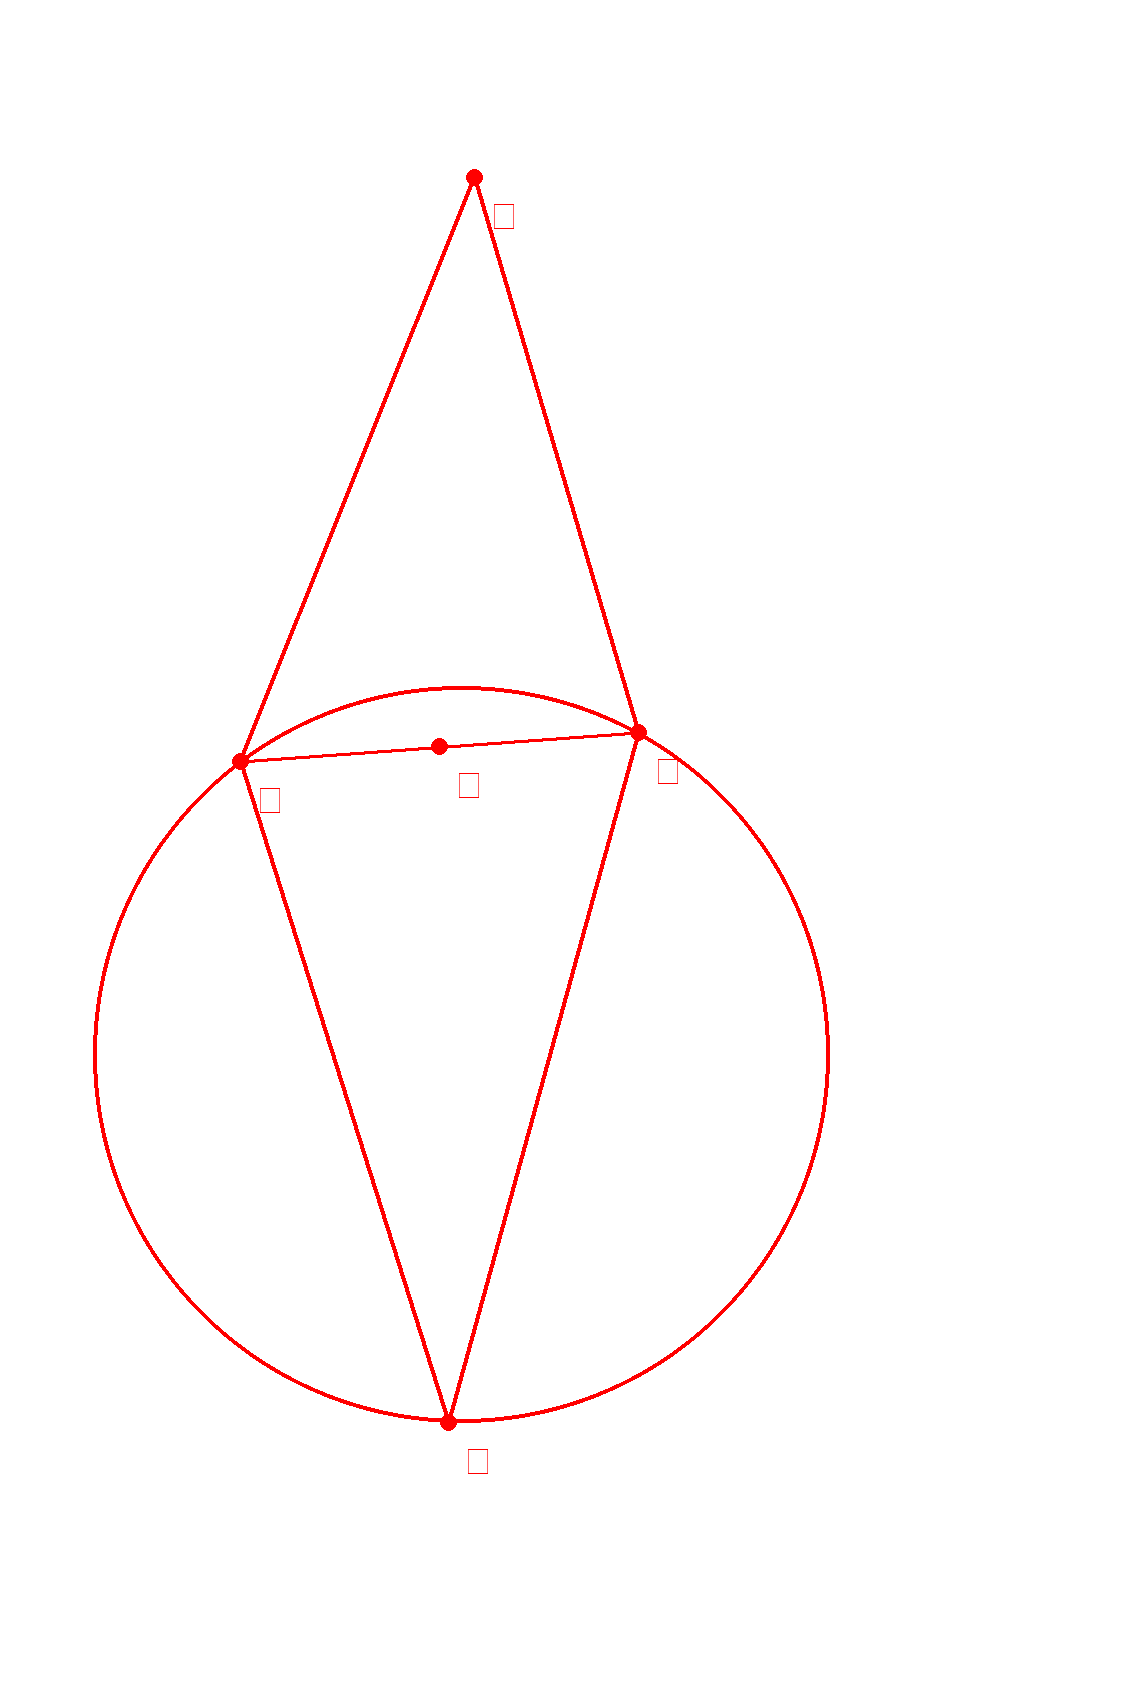
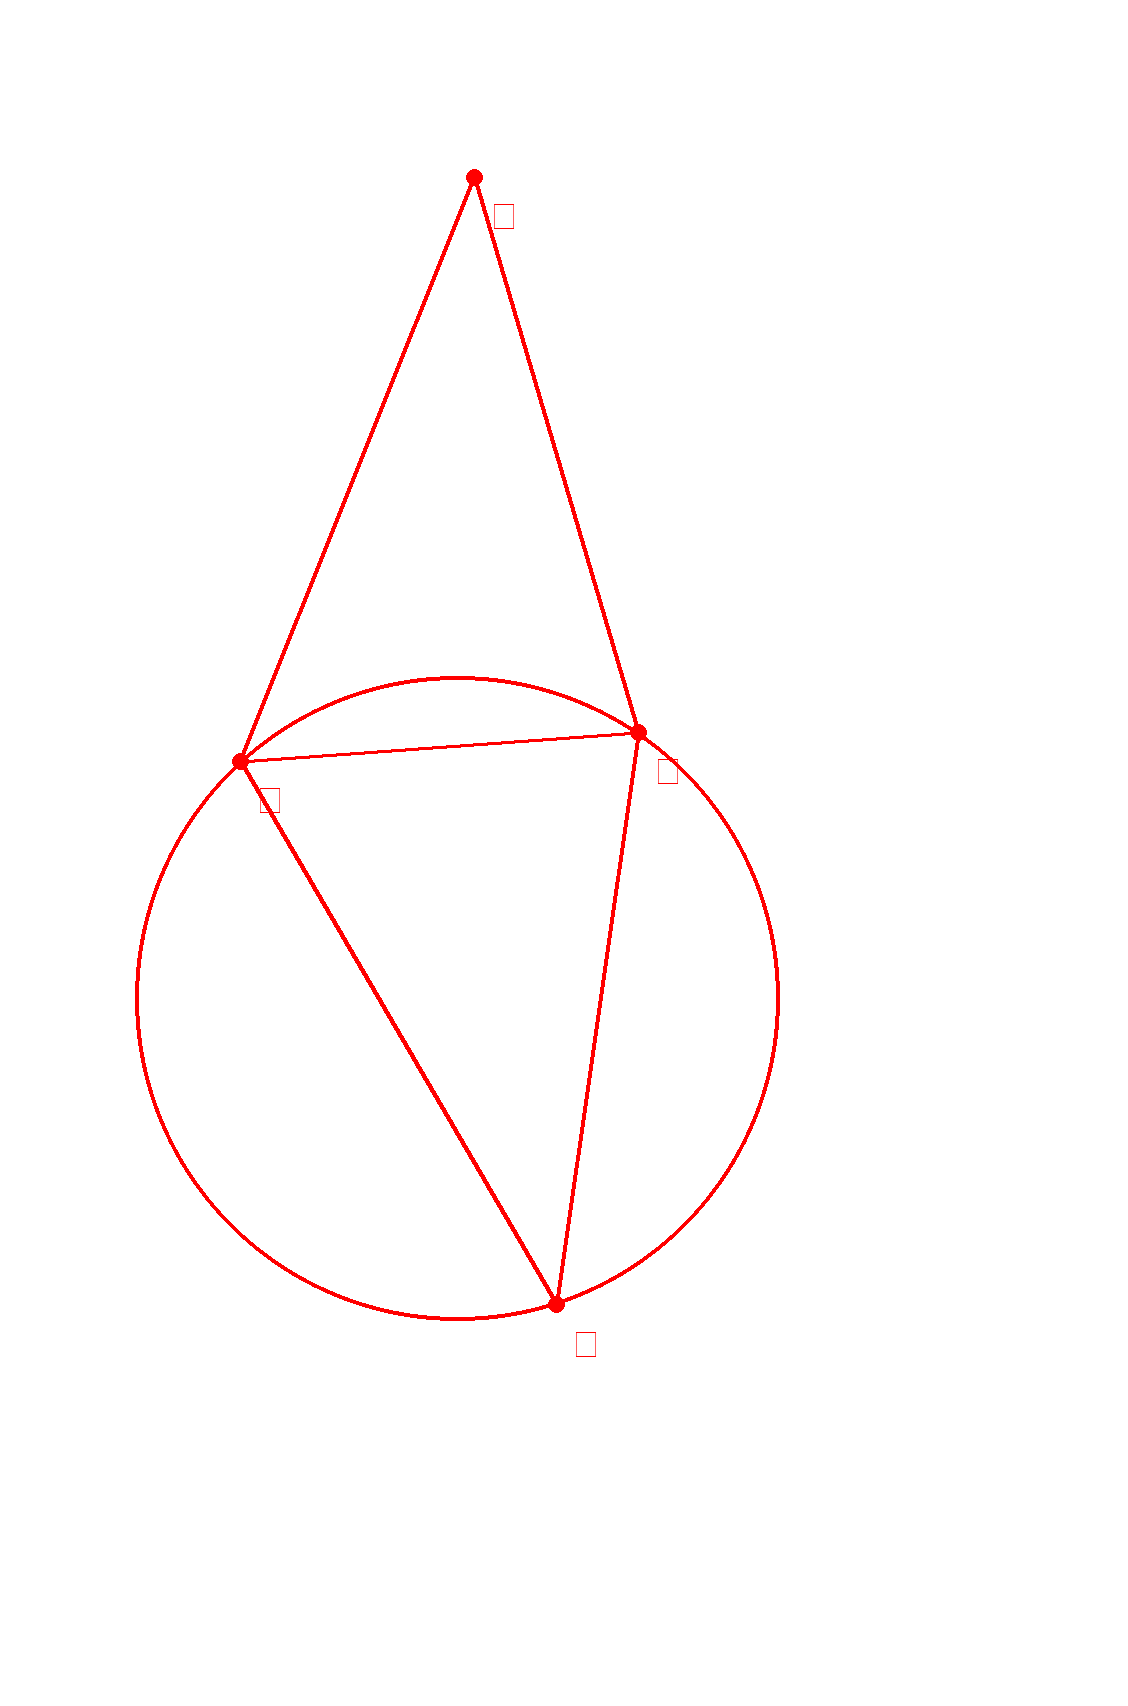
Feat: Made it generate ideal diagram smarter

diff --git a/templates/diagram_workflow.html b/templates/diagram_workflow.html
@@ -1,0 +1,57 @@
+<!DOCTYPE html>
+<html lang="en">
+<head>
+    <meta charset="UTF-8">
+    <title>Diagram Workflow Tool</title>
+</head>
+<body>
+    <h1>Diagram Workflow Tool</h1>
+    <a href="/">&larr; Back to Home</a>
+    <form method="post" enctype="multipart/form-data">
+        <label for="image">Upload diagram image:</label>
+        <input type="file" name="image" id="image" required><br><br>
+        <label for="question">Diagram question/instructions:</label><br>
+        <textarea name="question" id="question" rows="4" cols="50" required></textarea><br><br>
+        <button type="submit">Run Workflow</button>
+    </form>
+    {% if error %}
+        <p style="color:red;">{{ error }}</p>
+    {% endif %}
+    {% if result %}
+        <h2>Results</h2>
+        <h3>Qualitative Assessment</h3>
+        <p>{{ result.qualitative_assessment }}</p>
+        <h4>Similarities</h4>
+        <ul>
+        {% for s in result.similarities %}
+            <li>{{ s }}</li>
+        {% endfor %}
+        </ul>
+        <h4>Differences</h4>
+        <ul>
+        {% for d in result.differences %}
+            <li>{{ d }}</li>
+        {% endfor %}
+        </ul>
+        <h4>Suggestions for Improvement</h4>
+        <ul>
+        {% for sug in result.suggestions %}
+            <li>{{ sug }}</li>
+        {% endfor %}
+        </ul>
+        <h3>Images</h3>
+        <p>Ideal Diagram:</p>
+        <img src="/{{ result.ideal_diagram_img }}" alt="Ideal Diagram" style="max-width:400px;"><br>
+        <p>Overlay:</p>
+        <img src="/{{ result.overlay_img }}" alt="Overlay Diagram" style="max-width:400px;"><br>
+        <p>Student Detected Points:</p>
+        <img src="/{{ result.student_detected_points_img }}" alt="Student Points" style="max-width:400px;"><br>
+        <p>Student Detected Lines:</p>
+        <img src="/{{ result.student_detected_lines_img }}" alt="Student Lines" style="max-width:400px;"><br>
+        <p>Student Detected Circles:</p>
+        <img src="/{{ result.student_detected_circles_img }}" alt="Student Circles" style="max-width:400px;"><br>
+        <h3>Raw Data</h3>
+        <pre>{{ result | tojson(indent=2) }}</pre>
+    {% endif %}
+</body>
+</html> 

diff --git a/templates/home.html b/templates/home.html
@@ -1,0 +1,14 @@
+<!DOCTYPE html>
+<html lang="en">
+<head>
+    <meta charset="UTF-8">
+    <title>Mini Edexia Tools</title>
+</head>
+<body>
+    <h1>Welcome to Mini Edexia Tools</h1>
+    <ul>
+        <li><a href="/diagram-workflow">Diagram Workflow Tool</a></li>
+        <!-- <li><a href="/ocr-tool">Pure OCR Tool</a></li> -->
+    </ul>
+</body>
+</html> 

diff --git a/.diagram_hidden/diagram_workflow.py b/.diagram_hidden/diagram_workflow.py
@@ -478,7 +478,7 @@ def get_detailed_drawing_plan_llm(question_text, student_refined_points):
     Based on the following math problem question and the detected anchor points, generate a detailed drawing plan.
     The plan should specify:
     1.  `derived_point_calculations`: A list of objects, each describing how to calculate a new point.
-        - For reflection: `{{'point_label': 'D', 'type': 'reflection', 'source_point': 'B', 'over_line': ['A', 'C']}}`
+        - For reflection: `{{'point_label': 'D', 'type': 'reflection', 'source_point': 'B', 'over_line': ['A', 'C']}}` (Note: 'over_line' must be provided for reflections)
         - For midpoint: `{{'point_label': 'M', 'type': 'midpoint', 'points': ['A', 'C']}}`
     2.  `lines_to_draw`: A list of lists, where each inner list contains two point labels (e.g., `['A', 'B']`). This should cover all primary lines.
     3.  `circles_to_draw`: A list of objects, each describing a circle.
@@ -549,7 +549,7 @@ def get_detailed_drawing_plan_llm(question_text, student_refined_points):
         # Fallback to a default drawing plan on error
         fallback_plan = {
             "derived_point_calculations": [
-                {"point_label": "D", "type": "reflection", "source_point": "B", "over_line": ["A", "C"]}
+                {"point_label": "D", "type": "reflection", "source_point": "B", "over_line": ["A", "C"]} # Added over_line to fallback
             ],
             "lines_to_draw": [
                 ["A", "B"], ["B", "C"], ["A", "C"], ["A", "D"], ["C", "D"]
@@ -564,7 +564,7 @@ def get_detailed_drawing_plan_llm(question_text, student_refined_points):
 
 
 # --- Step 4: Construct the Ideal Diagram Image (Programmatic Drawing) ---
-def construct_ideal_diagram(student_refined_points, drawing_plan, img_shape):
+def construct_ideal_diagram(student_refined_points, drawing_plan, img_shape, easiest_anchor_points):
     """
     Programmatically constructs an ideal, complete diagram image using Pillow,
     driven by a detailed drawing plan from the LLM.
@@ -573,10 +573,16 @@ def construct_ideal_diagram(student_refined_points, drawing_plan, img_shape):
     print("--- Step 4: Constructing the ideal diagram using Pillow (based on drawing plan) ---")
     sys.stdout.flush()
 
-    # Start with student's anchor points
-    ideal_coords_for_comparison = {
-        label: coords for label, coords in student_refined_points.items()
-    }
+    # Initialize ideal_coords_for_comparison with ONLY the anchor points from the student's diagram
+    ideal_coords_for_comparison = {}
+    for label in easiest_anchor_points:
+        if label in student_refined_points:
+            ideal_coords_for_comparison[label] = student_refined_points[label]
+        else:
+            print(f"Warning: Anchor point '{label}' not found in student_refined_points. Cannot construct ideal diagram accurately.")
+            sys.stdout.flush()
+            # Depending on severity, you might want to raise an error or return an empty dict here.
+            # For now, we'll continue, but the diagram might be incomplete.
 
     img_width, img_height = img_shape[1], img_shape[0]
     ideal_img = Image.new('RGBA', (img_width, img_height), (0, 0, 0, 0))
@@ -636,6 +642,9 @@ def construct_ideal_diagram(student_refined_points, drawing_plan, img_shape):
                 else:
                     print(f"Warning: Missing or invalid coordinates for reflection calculation for point '{point_label}'.")
                     sys.stdout.flush()
+            else:
+                print(f"Warning: Reflection calculation for point '{point_label}' is missing 'source_point' or 'over_line' information. Skipping calculation.")
+                sys.stdout.flush()
         elif calc_type == "midpoint":
             midpoint_points_labels = calc.get('points')
             if midpoint_points_labels and len(midpoint_points_labels) == 2:
@@ -973,47 +982,49 @@ def judge_student_diagram(student_refined_points, ideal_coords_for_comparison, h
     sys.stdout.flush()
 
     # Quantitative Comparison: Compare point distances
-    aggregate_distance = 0
-    num_compared_points = 0
-    point_comparison_details = {}
+    aggregate_distance_anchors = 0
+    num_compared_anchors = 0
+    aggregate_distance_derived = 0
+    num_compared_derived = 0
 
-    # ideal_coords_for_comparison are already in the pixel space of the student's diagram,
-    # so no further scaling/offset is needed for direct comparison.
+    point_comparison_details = {}
+    anchor_labels = ['A', 'B', 'C'] # Define anchor points
+
     for label, ideal_point_pixel in ideal_coords_for_comparison.items():
         if label in student_refined_points:
             student_point = student_refined_points[label]
-            # Ensure points are valid before comparison
             if student_point is not None and not np.isnan(student_point).any() and \
                ideal_point_pixel is not None and not np.isnan(ideal_point_pixel).any():
                 distance = np.linalg.norm(np.array(student_point) - np.array(ideal_point_pixel))
-                aggregate_distance += distance
-                num_compared_points += 1
                 point_comparison_details[label] = {
                     'student_coords': student_point.tolist(),
-                    'ideal_coords_completed': ideal_point_pixel.tolist(), # Renamed for clarity
+                    'ideal_coords_completed': ideal_point_pixel.tolist(),
                     'distance': distance
                 }
+                if label in anchor_labels:
+                    aggregate_distance_anchors += distance
+                    num_compared_anchors += 1
+                else:
+                    aggregate_distance_derived += distance
+                    num_compared_derived += 1
             else:
                 print(f"Warning: Skipping quantitative comparison for label '{label}' due to invalid coordinates (student: {student_point}, ideal: {ideal_point_pixel}).")
                 sys.stdout.flush()
         else:
-            # This case should ideally not happen for A, B, C as they are input anchors.
-            # It might happen for D if OCR failed to detect 'D' but it was calculated.
             print(f"Warning: Label '{label}' from ideal diagram (completed) not found in student's detected points for quantitative comparison.")
             sys.stdout.flush()
 
-    if num_compared_points > 0:
-        average_distance = aggregate_distance / num_compared_points
-        print(f"Quantitative Comparison: Average point distance = {average_distance:.2f} pixels.")
-        print("Point-by-point comparison details:")
-        sys.stdout.flush()
-        for label, details in point_comparison_details.items():
-            print(f"  {label}: Student({details['student_coords'][0]:.0f}, {details['student_coords'][1]:.0f}), "
-                  f"Ideal_Completed({details['ideal_coords_completed'][0]:.0f}, {details['ideal_coords_completed'][1]:.0f}), "
-                  f"Distance={details['distance']:.2f}")
-            sys.stdout.flush()
-    else:
-        print("No common points to compare quantitatively or all points had invalid coordinates.")
+    average_distance_anchors = aggregate_distance_anchors / num_compared_anchors if num_compared_anchors > 0 else 0
+    average_distance_derived = aggregate_distance_derived / num_compared_derived if num_compared_derived > 0 else 0
+
+    print(f"Quantitative Comparison: Average anchor point distance = {average_distance_anchors:.2f} pixels.")
+    print(f"Quantitative Comparison: Average derived point distance = {average_distance_derived:.2f} pixels.")
+    print("Point-by-point comparison details:")
+    sys.stdout.flush()
+    for label, details in point_comparison_details.items():
+        print(f"  {label}: Student({details['student_coords'][0]:.0f}, {details['student_coords'][1]:.0f}), "
+              f"Ideal_Completed({details['ideal_coords_completed'][0]:.0f}, {details['ideal_coords_completed'][1]:.0f}), "
+              f"Distance={details['distance']:.2f}")
         sys.stdout.flush()
 
     # Qualitative Comparison (Multi-modal LLM)
@@ -1041,8 +1052,22 @@ def judge_student_diagram(student_refined_points, ideal_coords_for_comparison, h
         if hand_drawn_image_data is None or ideal_diagram_image_data is None:
             raise FileNotFoundError("One or both diagram images for LLM comparison were not found.")
 
+        prompt_text = f"""
+        Compare these two diagrams. The first image is a hand-drawn diagram by a student, and the second image is the ideal, programmatically generated diagram based on the student's initial points.
+
+        Here are some quantitative metrics for point accuracy:
+        - Average error distance for primary anchor points (A, B, C): {average_distance_anchors:.2f} pixels.
+        - Average error distance for derived points (like D, M, etc.): {average_distance_derived:.2f} pixels.
+
+        Provide a structured assessment as a JSON object with the following keys:
+        'overall_assessment': string (incorporate the quantitative error data into this assessment)
+        'similarities': list of strings
+        'differences': list of strings
+        'suggestions_for_improvement': list of strings (provide specific, actionable advice based on both visual and quantitative data)
+        """
+
         prompt_parts = [
-            {"text": "Compare these two diagrams. The first image is a hand-drawn diagram by a student, and the second image is the ideal, programmatically generated diagram based on the student's initial points. Provide a structured assessment as a JSON object with the following keys:\n'overall_assessment': string\n'similarities': list of strings\n'differences': list of strings\n'suggestions_for_improvement': list of strings"},
+            {"text": prompt_text},
             hand_drawn_image_data,
             ideal_diagram_image_data
         ]
@@ -1074,7 +1099,7 @@ def judge_student_diagram(student_refined_points, ideal_coords_for_comparison, h
         for d in llm_response.get('differences', []):
             print(f"- {d}")
         print("Suggestions for Improvement:")
-        for s in llm_response.get('suggestions_for_improvement', []): # Corrected key from 'suggestions' to 'suggestions_for_improvement'
+        for s in llm_response.get('suggestions_for_improvement', []):
             print(f"- {s}")
         sys.stdout.flush()
 
@@ -1241,8 +1266,8 @@ def main_workflow(image_path, question_text):
     sys.stdout.flush()
 
     # Step 4: Construct the Ideal Diagram Image (Programmatic Drawing)
-    # Now pass the detailed drawing_plan to construct_ideal_diagram
-    ideal_coords_for_comparison, ideal_diagram_img_path = construct_ideal_diagram(student_refined_points, drawing_plan, hand_drawn_img.shape)
+    # Now pass the detailed drawing_plan and easiest_anchor_points to construct_ideal_diagram
+    ideal_coords_for_comparison, ideal_diagram_img_path = construct_ideal_diagram(student_refined_points, drawing_plan, hand_drawn_img.shape, easiest_anchor_points)
     print("DEBUG: After construct_ideal_diagram.")
     sys.stdout.flush()
     if ideal_diagram_img_path == "ideal_diagram_error.png" or ideal_diagram_img_path == "ideal_diagram_error_save_failed.png":

diff --git a/web.py b/web.py
@@ -1,0 +1,31 @@
+from flask import Flask, render_template, request, redirect, url_for
+import os
+from werkzeug.utils import secure_filename
+from diagram_hidden.diagram_workflow import run_diagram_workflow_for_web
+
+app = Flask(__name__)
+app.config['UPLOAD_FOLDER'] = 'uploads/'
+app.config['MAX_CONTENT_LENGTH'] = 16 * 1024 * 1024  # 16MB max upload
+
+# Home page
+@app.route('/')
+def home():
+    return render_template('home.html')
+
+# Diagram workflow tool
+@app.route('/diagram-workflow', methods=['GET', 'POST'])
+def diagram_workflow():
+    if request.method == 'POST':
+        file = request.files.get('image')
+        question = request.form.get('question')
+        if not file or not question:
+            return render_template('diagram_workflow.html', error='Please provide both an image and a question.')
+        filename = secure_filename(file.filename)
+        filepath = os.path.join(app.config['UPLOAD_FOLDER'], filename)
+        file.save(filepath)
+        result = run_diagram_workflow_for_web(filepath, question)
+        return render_template('diagram_workflow.html', result=result, image_url=url_for('static', filename=filename))
+    return render_template('diagram_workflow.html')
+
+if __name__ == '__main__':
+    app.run(debug=True) 
